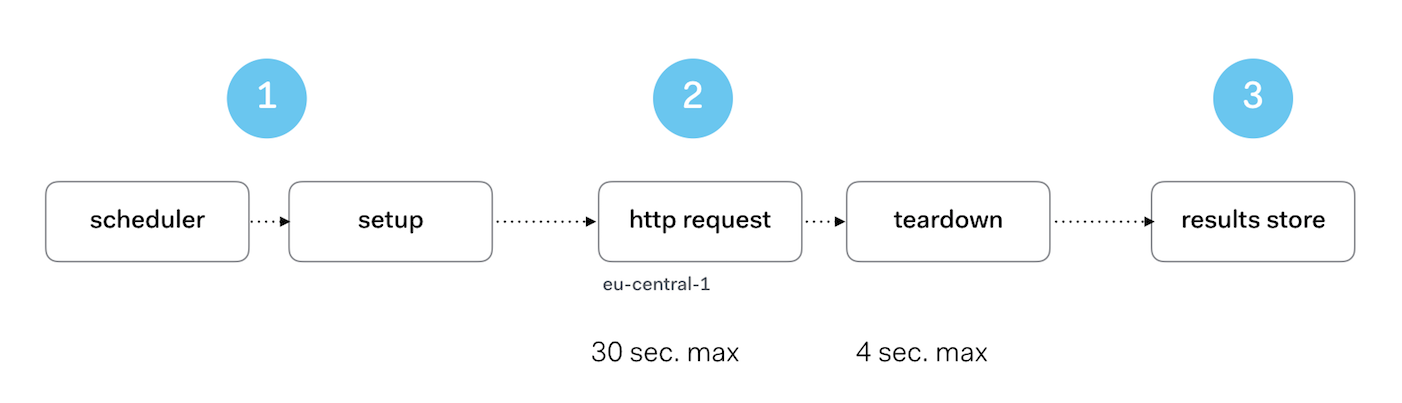
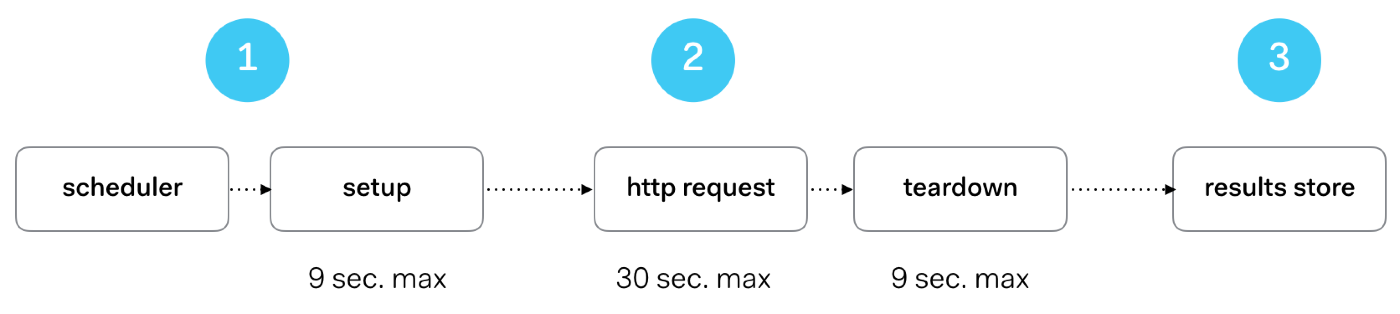
feat: make side menu for docs collapsible

diff --git a/site/layouts/partials/docs-menu.html b/site/layouts/partials/docs-menu.html
@@ -6,9 +6,14 @@
         target="_blank">API reference
       <div class="badge badge-accent badge-sm ml-2">beta</div></a>
     <ul class="docs-menu-content">
-      {{ $currentPage := . }} {{ range .Site.Menus.docs }} {{ if .HasChildren }}
-      <li class="docs-menu-item">
-        <div class="docs-menu-title">{{.Name}}</div>
+      {{ $currentPage := . }}
+      {{ range .Site.Menus.docs }} {{ if .HasChildren }}
+      <li class='docs-menu-item'>
+        <a class='docs-menu-title {{ if $currentPage.HasMenuCurrent "docs" . }}active{{ end }}' href="{{.URL}}">{{.Name}}</a>
+
+        {{if $currentPage.HasMenuCurrent "docs" . }}
+
+
         <ul class="docs-menu-sub">
           {{range .Children}} {{ $has := $currentPage.IsMenuCurrent "docs" . }}
           <li class="docs-menu-sub-item {{if $has}}active{{end}}">
@@ -18,6 +23,9 @@
           </li>
           {{end}}
         </ul>
+
+        {{end}}
+
       </li>
       {{else}}
       <li class="docs-menu-item">

diff --git a/src/scss/_docs.scss b/src/scss/_docs.scss
@@ -49,9 +49,9 @@
     }
 
     &-title {
-      font-weight: 600;
-      text-transform: uppercase;
-      font-size: 0.675rem;
+      display: block;
+      font-weight: 500;
+      font-size: 0.875rem;
       margin-bottom: 0.5rem
     }
     &-sub {
@@ -61,6 +61,7 @@
 
       &-item {
         margin-bottom: .3rem;
+        padding-left: .5rem;
         a {
           color: $gray-darkish;
           text-decoration: none;
@@ -71,8 +72,8 @@
         }
         &.active {
           a {
-            color: $brand-primary;
-            font-weight: 400;
+            color: $gray-dark;
+            font-weight: 500;
           }
         }
       }
@@ -113,7 +114,7 @@
     min-width: 20rem;
     max-width: 60rem;
     flex-grow: 1;
-    padding: 0 1rem;
+    padding: 0 2rem;
     margin-top: $top + 1rem;
     margin-left: auto;
     margin-right: auto;

diff --git a/site/content/docs/browser-checks/partials-code-snippets.md b/site/content/docs/browser-checks/partials-code-snippets.md
@@ -51,3 +51,29 @@ During execution, the code snippet will be inlined before the script is run.
     await page.click('.header-search-input')
     ```
 
+### Passing variables to partials
+
+You might want to create a partials that has a generic login routine and then pass it different username / password combinations
+based on your script. Or you might want to pass other variables to your partials.
+
+Under the hood, we use [Handlebars' partials](https://handlebarsjs.com/guide/partials.html#basic-partials) and it supports 
+passing variables. Let's look at the following example:
+
+This is our partial. We call it **log_things**.
+
+```js
+console.log({{username}})
+console.log({{password}})
+console.log("{{extra}}")
+```
+
+This is our browser script, using the partial. We fly in two environment variables `USERNAME` and `PASSWORD`.
+
+```js
+{{> log_things username="process.env.USER" password="process.env.PWD" extra="text" }}
+```
+Notice three things:
+1. All partial variables are passed in as key/value pairs, where the value is a "string".
+2. The environment variables `process.env.xxx` are evaluated to a string in the partial.
+3. A standard string like the `extra="text"` pair is passed as is. Notice the extra quotes in the partial.
+

diff --git a/site/content/docs/api-checks/setup-teardown-scripts.md b/site/content/docs/api-checks/setup-teardown-scripts.md
@@ -29,7 +29,7 @@ setup script are distributed to each check run on each data center location.
 script. This means your teardown script *can run multiple times!*
 3. After the teardown script has run, all results are collected in our central storage.
 
-Both setup and teardown scrips have a **maximum execution time of 4 seconds**.
+Both setup and teardown scrips have a **maximum execution time of 9 seconds**.
 
 ![setup and teardown script execution](/docs/images/api-checks/setup-teardown-2.png)
 
